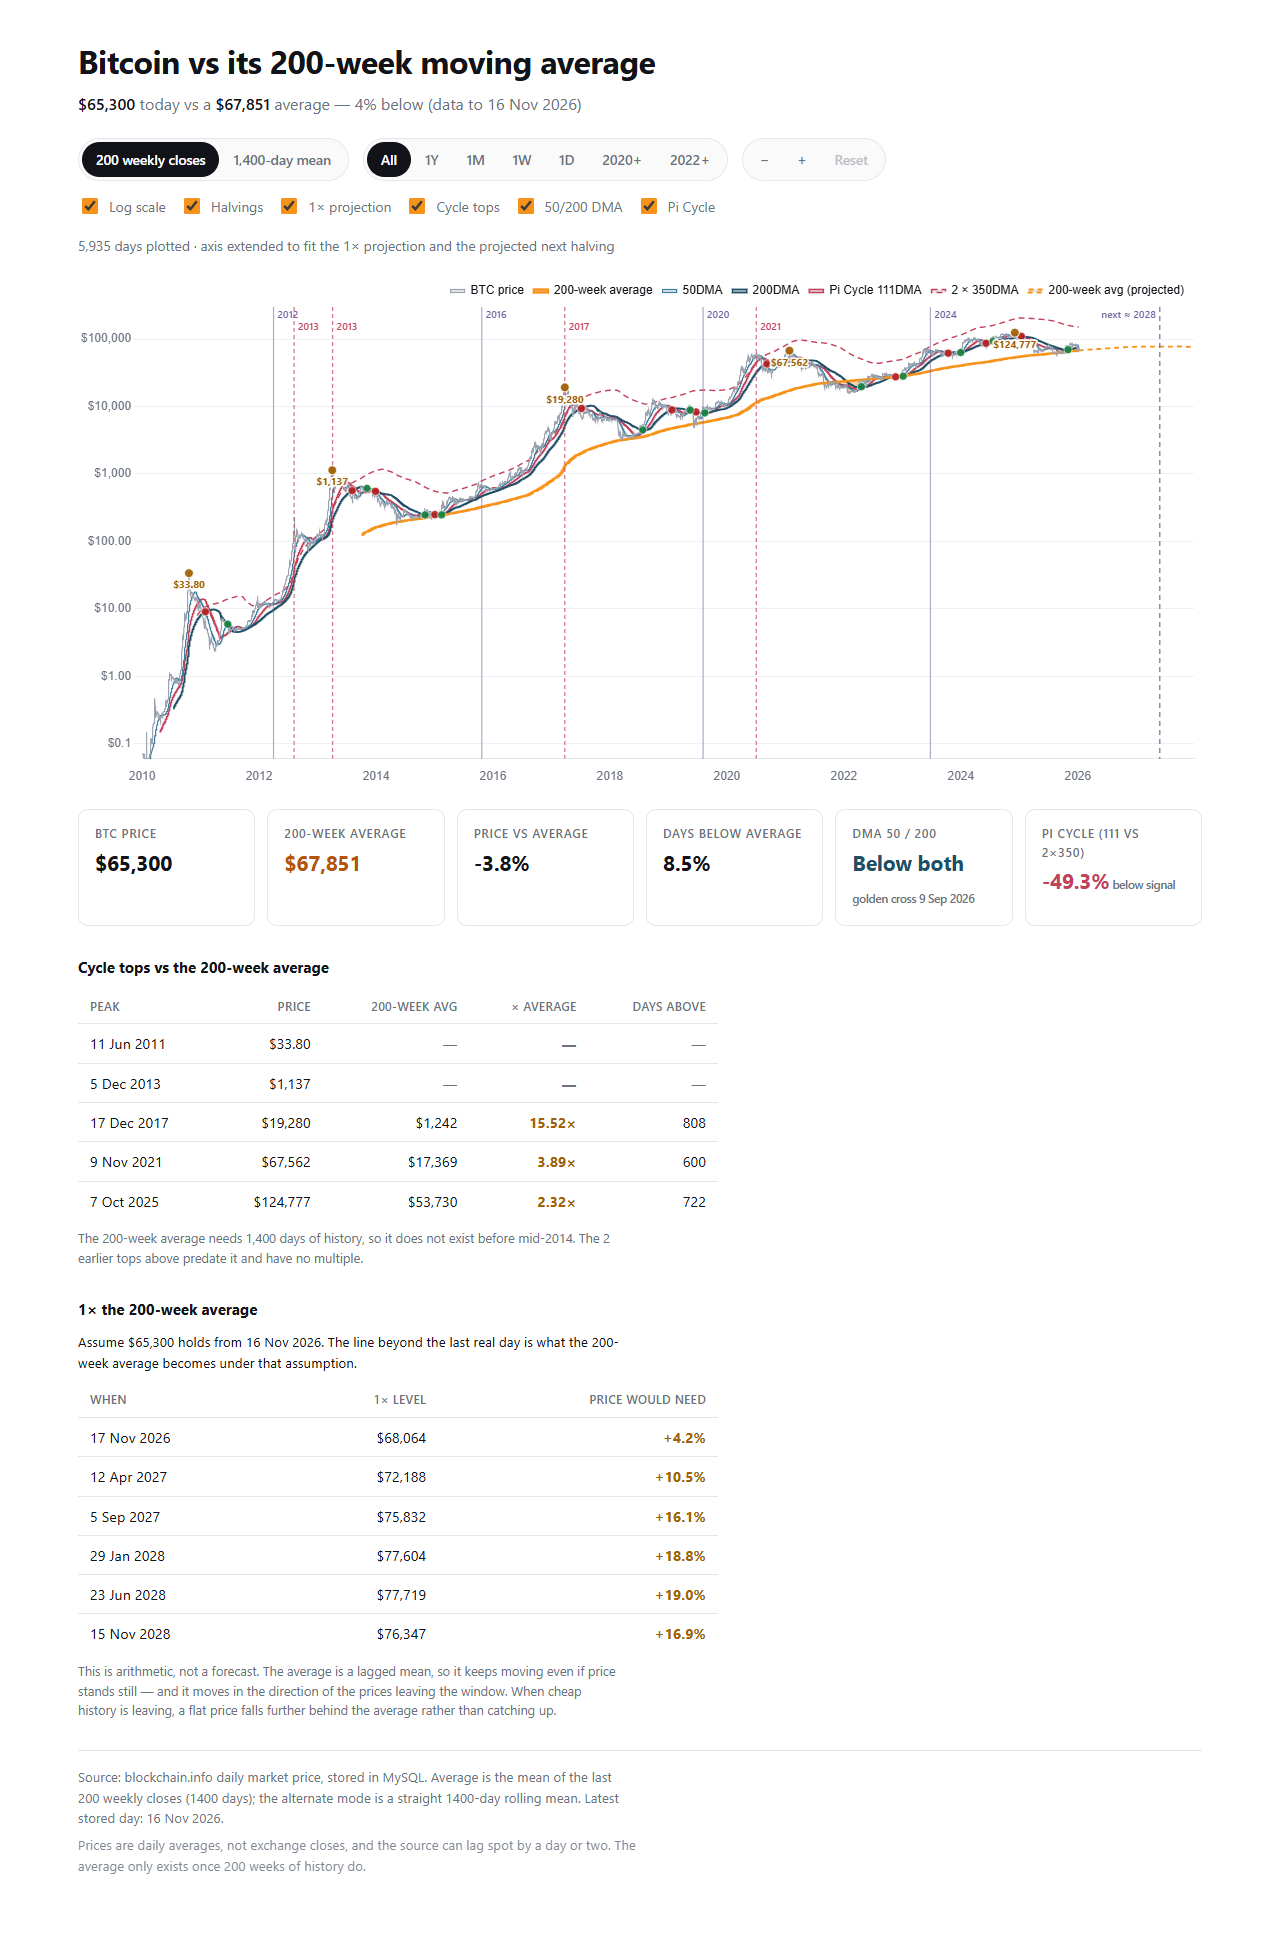
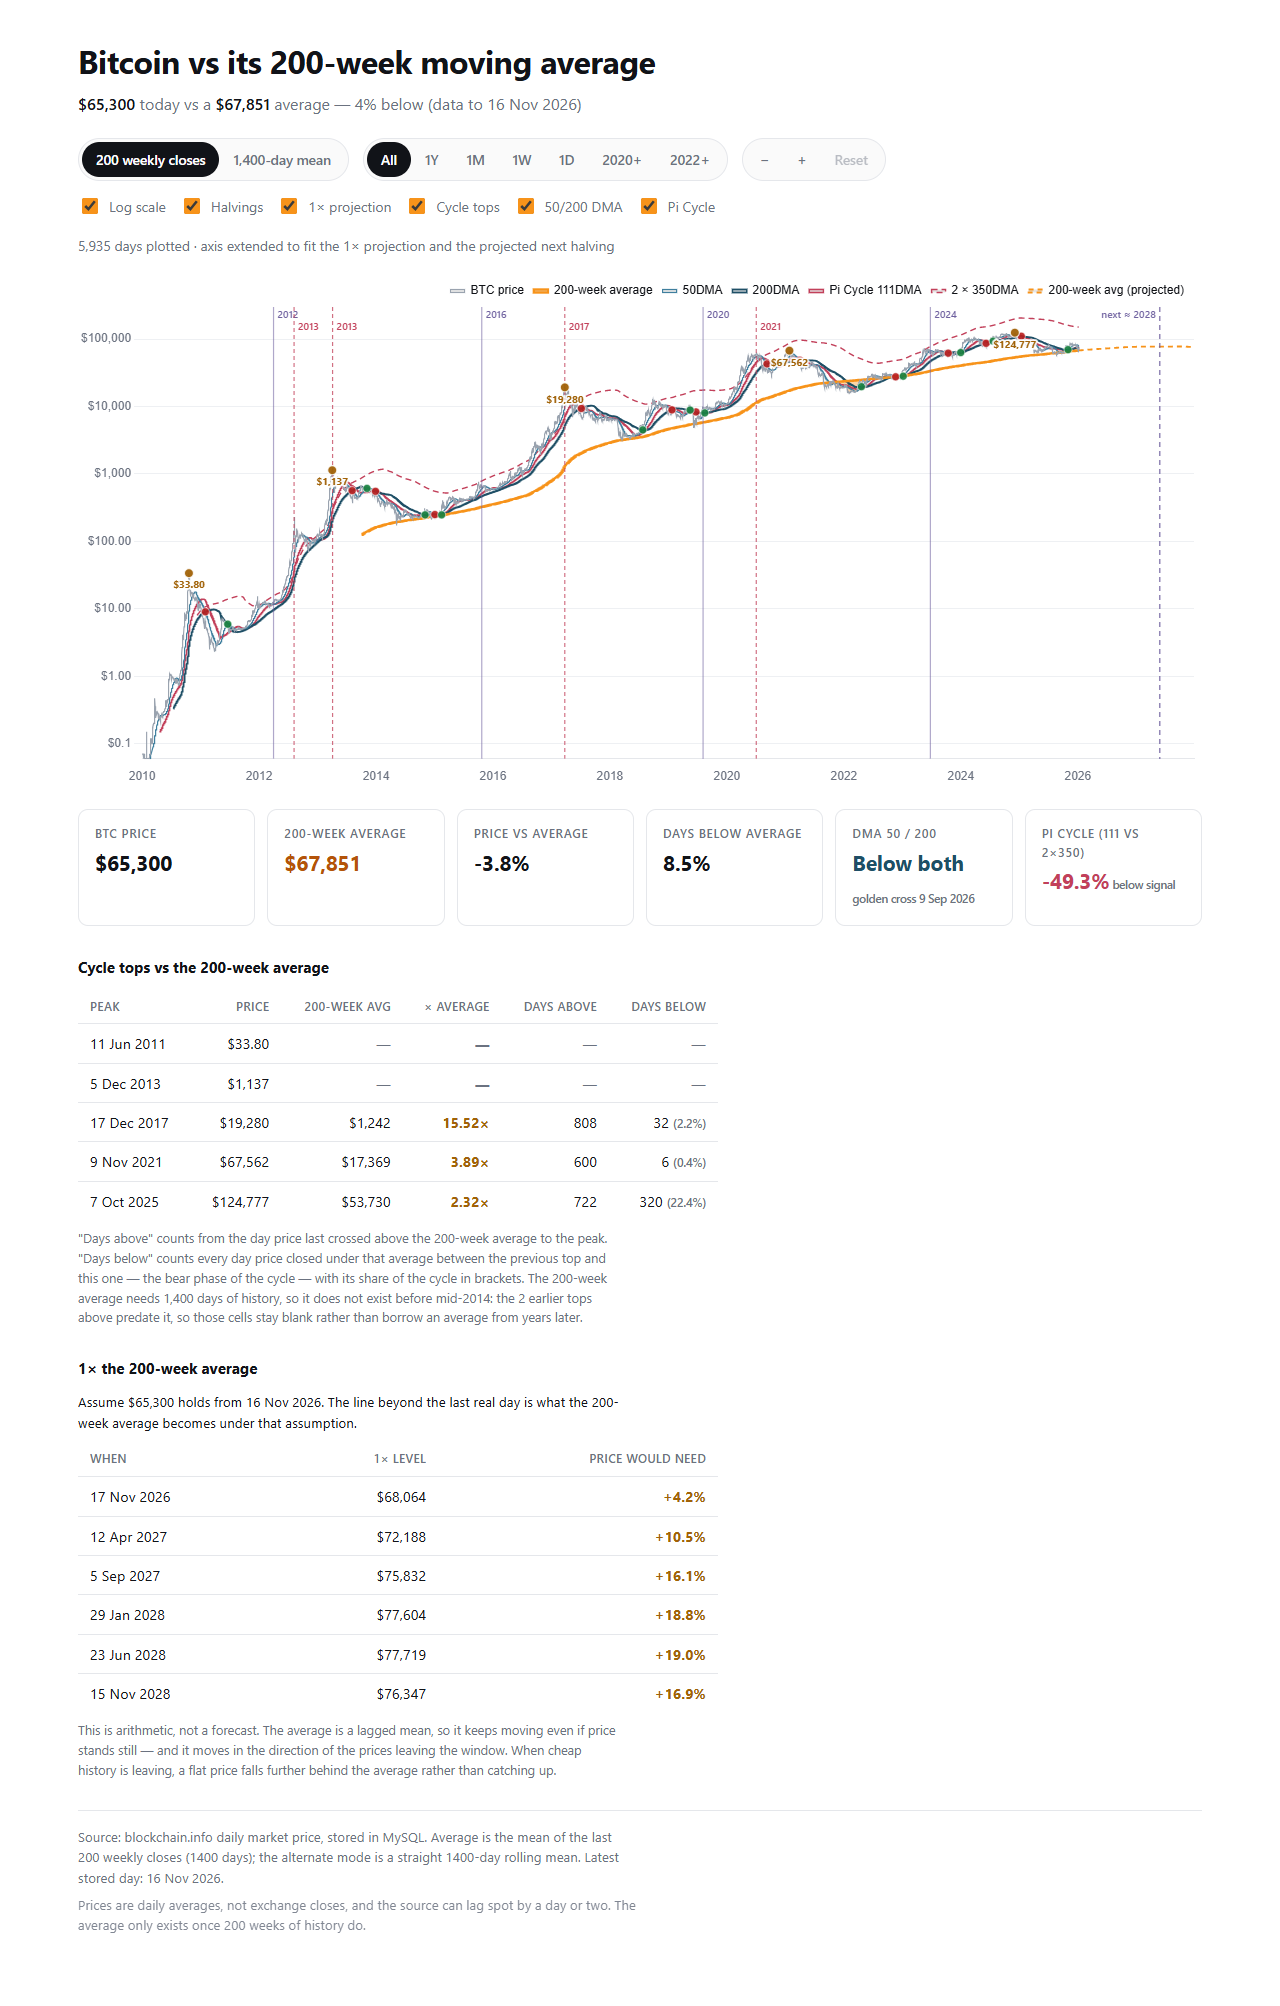
Count the days each cycle spent below the 200-week average
A "Days below" column beside "Days above", counting every day price closed
under the average between the previous top and this one, with its share of the
cycle in brackets.

The obvious measure - the stretch immediately before the crossing up - was
tried first and discarded. Price whipsaws across a moving average constantly,
so that returns 2, 5 and 47 days for the three peaks: arithmetically correct
and practically meaningless. Measuring across the whole cycle is what carries
information.

What it shows:

  2017-2021   32 of 1473 days below  (2.2%)
  2021-2025    6 of 1423 days below  (0.4%)
  2025-       320 of 1428 days below (22.4%)

The six days in the 2021 cycle are the March 2020 break and nothing else. That
looked wrong at first - 2018 was a deep bear market - so it was checked
against the data: at the December 2018 low of $3,242 the average was still
about $3,189, so price never closed under it that year. The bear market did not
touch the 200-week line.

Present cycle at 22.4% is the longest below-average stretch on record.

Also fixed: percentages rounded to whole numbers, so 6 days displayed as "0%"
and read as never; now one decimal. And on mobile the value and percentage
split to opposite ends of the row because flexbox treated the text node and
the span as separate items; wrapped in one element.

Peaks older than the average keep nulls rather than borrowing an average from
years later - the same rule as the other 200-week columns.
[…]

diff --git a/public/js/app.js b/public/js/app.js
@@ -1160,16 +1160,32 @@
                     (hasAverage ? p.multiple.toFixed(2) + '\u00d7' : '\u2014') + '</td>' +
                 '<td class="num' + (p.days_above === null ? ' na' : '') + '" data-label="Days above">' +
                     (p.days_above === null ? '\u2014' : p.days_above.toLocaleString('en-US')) + '</td>' +
+                '<td class="num' + (p.cycle_days_below === null || p.cycle_days_below === undefined ? ' na' : '') + '" data-label="Days below"><span>' +
+                    (p.cycle_days_below === null || p.cycle_days_below === undefined
+                        ? '\u2014'
+                        : p.cycle_days_below.toLocaleString('en-US') +
+                          ' <span class="pct">(' + (p.cycle_days ? (p.cycle_days_below / p.cycle_days * 100).toFixed(1).replace('.0', '') : '0') + '%)</span>') +
+                '</span></td>' +
                 '</tr>';
         });
 
         peakTableBodyEl.innerHTML = html;
         peakSectionEl.hidden = false;
 
-        peakNoteEl.textContent = missing > 0
-            ? 'The 200-week average needs 1,400 days of history, so it does not exist before mid-2014. The '
-                + missing + ' earlier top' + (missing === 1 ? '' : 's') + ' above predate it and have no multiple.'
-            : '"Days above" counts from the day price last crossed above the 200-week average to the peak.';
+        var note = '';
+
+        note += '"Days above" counts from the day price last crossed above the 200-week average to the peak.';
+
+        note += ' "Days below" counts every day price closed under that average between the previous top'
+            + ' and this one — the bear phase of the cycle — with its share of the cycle in brackets.';
+
+        if (missing > 0) {
+            note += ' The 200-week average needs 1,400 days of history, so it does not exist before mid-2014:'
+                + ' the ' + missing + ' earlier top' + (missing === 1 ? '' : 's') + ' above predate it, so those'
+                + ' cells stay blank rather than borrow an average from years later.';
+        }
+
+        peakNoteEl.textContent = note;
     }
 
     // ------------------------------------------------------------------ zoom

diff --git a/public/css/style.css b/public/css/style.css
@@ -280,6 +280,12 @@ main {
    "not applicable" rather than "none". */
 .peak-table td.na { color: var(--muted); }
 
+.peak-table .pct {
+    color: var(--muted);
+    font-size: 0.8em;
+    font-weight: 600;
+}
+
 .peak-note {
     margin: 8px 0 0;
     max-width: 78ch;

diff --git a/src/PeakJourney.php b/src/PeakJourney.php
@@ -15,6 +15,12 @@ namespace Btc200Wma;
  *  - the JOURNEY — days spent continuously above the average before the peak,
  *    starting from the last day price was at or below it.
  *
+ * A third number counts the opposite: how many days price closed UNDER the
+ * average across the whole cycle leading to the peak, measured from the previous
+ * peak. That is the bear phase of the cycle, and it is deliberately not "the
+ * days immediately before the crossing": price whipsaws across a moving average
+ * constantly, so that measure returns 2, 5 and 47 days and tells you nothing.
+ *
  * A limitation that cannot be engineered away, only reported: the 200-week
  * average needs 1,400 days of history, so it does not exist before mid-2014.
  * The 2011 and 2013 peaks predate it and have no multiple. They are returned
@@ -30,7 +36,8 @@ final class PeakJourney
      * @return list<array{
      *     date:string, usd:float, confirmed:bool,
      *     ma:?float, multiple:?float,
-     *     days_above:?int, crossed_above:?string
+     *     days_above:?int, crossed_above:?string,
+     *     cycle_days:?int, cycle_days_below:?int
      * }>
      */
     public function annotate(array $peaks, array $series): array
@@ -42,7 +49,7 @@ final class PeakJourney
 
         $out = [];
 
-        foreach ($peaks as $peak) {
+        foreach ($peaks as $n => $peak) {
             $i = $byDate[$peak['date']] ?? null;
             $ma = $i === null ? null : $series[$i]['ma'];
 
@@ -54,6 +61,8 @@ final class PeakJourney
                 'multiple'     => ($ma === null || $ma <= 0.0) ? null : $peak['usd'] / $ma,
                 'days_above'   => null,
                 'crossed_above' => null,
+                'cycle_days'   => null,
+                'cycle_days_below' => null,
             ];
 
             // Only a peak that falls inside the averaged range can have a
@@ -66,6 +75,36 @@ final class PeakJourney
                     // from there to the peak, inclusive.
                     $entry['days_above']    = $i - $lastBelow;
                     $entry['crossed_above'] = $series[$lastBelow + 1]['date'] ?? null;
+                }
+            }
+
+            // The bear phase: days below the average since the previous peak.
+            if ($n > 0 && $i !== null) {
+                $from = $byDate[$peaks[$n - 1]['date']] ?? null;
+
+                if ($from !== null && $from < $i) {
+                    $below = 0;
+                    $comparable = 0;
+
+                    for ($k = $from + 1; $k <= $i; $k++) {
+                        if ($series[$k]['ma'] === null) {
+                            continue;
+                        }
+
+                        $comparable++;
+
+                        if ($series[$k]['usd'] <= $series[$k]['ma']) {
+                            $below++;
+                        }
+                    }
+
+                    // Null, not zero, when the average did not exist for any day
+                    // of the window: a cycle that predates the average has no
+                    // bear phase to count.
+                    if ($comparable > 0) {
+                        $entry['cycle_days']       = $i - $from;
+                        $entry['cycle_days_below'] = $below;
+                    }
                 }
             }
 

diff --git a/tests/PeakJourneyTest.php b/tests/PeakJourneyTest.php
@@ -3,12 +3,12 @@
 declare(strict_types=1);
 
 /**
- * Tests for peak-vs-200-week-average analysis — plain PHP.
+ * Tests for peak-vs-200-week-average analysis â€” plain PHP.
  *
  *   php tests/PeakJourneyTest.php
  *
  * The failure that matters here is a plausible number built on a missing
- * average: dividing by null, or quietly reporting the 2011 peak as "0×", would
+ * average: dividing by null, or quietly reporting the 2011 peak as "0Ã—", would
  * put a wrong figure in a table people read as fact.
  */
 
@@ -50,7 +50,7 @@ $journey = new PeakJourney();
 
 echo "a peak before the average exists\n";
 
-// Peak on day 5, average only from day 3 onwards is not enough — null here.
+// Peak on day 5, average only from day 3 onwards is not enough â€” null here.
 $earlyPeak = [['date' => day(5), 'usd' => 100.0, 'confirmed' => true]];
 $earlySeries = [];
 for ($d = 0; $d <= 20; $d++) {
@@ -118,6 +118,38 @@ check('multiple still computed', abs($c['multiple'] - 2.0) < 1e-9, true);
 check('no crossing to measure from', $c['days_above'], null);
 check('no invented crossing date', $c['crossed_above'], null);
 
+echo "\ndays below the average across a cycle\n";
+
+// Two peaks 100 days apart. Days 1-49 above the average, days 50-100 below.
+// The cycle window runs from the day after the first peak to the second.
+$cycSeries = [];
+for ($d = 0; $d <= 100; $d++) {
+    $cycSeries[] = [
+        'date' => day($d),
+        'usd'  => $d < 50 ? 20.0 : 5.0,
+        'ma'   => 10.0,
+    ];
+}
+
+$cycPeaks = [
+    ['date' => day(0),  'usd' => 20.0, 'confirmed' => true],
+    ['date' => day(100), 'usd' => 20.0, 'confirmed' => true],
+];
+
+$c = $journey->annotate($cycPeaks, $cycSeries);
+check('first peak has no cycle to measure', $c[0]['cycle_days_below'], null);
+check('cycle length counted', $c[1]['cycle_days'], 100);
+// Days 50 through 100 inclusive are below: 51 of the 100 counted days.
+check('days below counted across the cycle', $c[1]['cycle_days_below'], 51);
+
+// With no average data in the window, null rather than a misleading zero.
+$noMa = [];
+for ($d = 0; $d <= 100; $d++) {
+    $noMa[] = ['date' => day($d), 'usd' => 20.0, 'ma' => null];
+}
+$nm = $journey->annotate($cycPeaks, $noMa);
+check('no average in the window means null', $nm[1]['cycle_days_below'], null);
+
 echo "\nconfirmed flag survives the annotation\n";
 
 $p4 = [['date' => day(20), 'usd' => 40.0, 'confirmed' => false]];
@@ -135,5 +167,5 @@ check('first date first', $m[0]['date'], day(20));
 check('second date second', $m[1]['date'], day(25));
 
 echo "\n----------------------------------------------------------------\n";
-echo ($failures === 0 ? 'PASS' : 'FAIL') . " — {$checks} checks, {$failures} failed\n";
+echo ($failures === 0 ? 'PASS' : 'FAIL') . " â€” {$checks} checks, {$failures} failed\n";
 exit($failures === 0 ? 0 : 1);

diff --git a/public/api/series.php b/public/api/series.php
@@ -260,6 +260,10 @@ try {
                     'multiple'      => $p['multiple'] === null ? null : round($p['multiple'], 2),
                     'days_above'    => $p['days_above'],
                     'crossed_above' => $p['crossed_above'],
+                    // The bear phase: days price closed under the average between
+                    // the previous top and this one.
+                    'cycle_days'    => $p['cycle_days'],
+                    'cycle_days_below' => $p['cycle_days_below'],
                 ],
                 $peakRows
             ),

diff --git a/public/index.php b/public/index.php
@@ -139,6 +139,7 @@ php bin/import.php</pre>
                         <th scope="col" class="num">200-week avg</th>
                         <th scope="col" class="num">&times; average</th>
                         <th scope="col" class="num">Days above</th>
+                        <th scope="col" class="num">Days below</th>
                     </tr>
                 </thead>
                 <tbody></tbody>

diff --git a/README.md b/README.md
@@ -169,17 +169,31 @@ so this is visible rather than assumed.
 
 Below the stat cards, a table answers how far each top ran above the average:
 
-| Peak | Price | 200-week avg | × average | Days above |
-|------|-------|--------------|-----------|------------|
-| 11 Jun 2011 | $33.80 | — | — | — |
-| 5 Dec 2013 | $1,137 | — | — | — |
-| 17 Dec 2017 | $19,280 | $1,242 | 15.52× | 808 |
-| 9 Nov 2021 | $67,562 | $17,369 | 3.89× | 600 |
-| 7 Oct 2025 | $124,777 | $53,730 | 2.32× | 722 |
+| Peak | Price | 200-week avg | × average | Days above | Days below |
+|------|-------|--------------|-----------|------------|------------|
+| 11 Jun 2011 | $33.80 | — | — | — | — |
+| 5 Dec 2013 | $1,137 | — | — | — | — |
+| 17 Dec 2017 | $19,280 | $1,242 | 15.52× | 808 | 32 (2.2%) |
+| 9 Nov 2021 | $67,562 | $17,369 | 3.89× | 600 | 6 (0.4%) |
+| 7 Oct 2025 | $124,777 | $53,730 | 2.32× | 722 | 320 (22.4%) |
 
 **× average** is the peak price divided by the 200-week average *on that day*.
 **Days above** counts from the day price last crossed above the average to the
 peak — the length of the run that carried it there.
+
+**Days below** is the other half of the cycle: every day price closed *under*
+the average between the previous top and this one, with its share of the cycle
+in brackets. That is the bear phase — and the three cycles differ sharply.
+Only 6 days of the 2017–2021 cycle were spent below the average (the March 2020
+break, and nothing else; 2018 never closed under it, because the average was
+still around $3,200 at the December low). The present cycle has spent 320 days
+below, 22.4% of it.
+
+It is worth being precise about what "Days below" is **not**: it is not the
+stretch immediately before the crossing. Price whipsaws across a moving average
+constantly, so that measure returns 2, 5 and 47 days for the three peaks —
+arithmetically correct and practically meaningless. Measuring across the whole
+cycle is what carries information.
 
 The two early tops show a dash, and that is not a formatting choice: the
 200-week average needs 1,400 days of history, so it does not exist before
@@ -437,8 +451,10 @@ line — negative meaning below.
 `peaks.window_days` stating the prominence window used. Also not windowed.
 
 `peaks.vs_average` adds each peak's `ma` (the 200-week average that day),
-`multiple` (peak ÷ average), `days_above` and `crossed_above`. The first two are
-null for peaks older than the average itself.
+`multiple` (peak ÷ average), `days_above` and `crossed_above`, plus
+`cycle_days` and `cycle_days_below` — the length of the cycle since the previous
+top and how many of those days closed under the average. The 200-week fields are
+null for peaks older than that average itself.
 
 `projection` carries the 1× projection: `assumption` (the sentence the numbers
 depend on), `assumed_price`, `from`, and parallel `labels` / `ma` / `ratio`
@@ -489,8 +505,9 @@ php tests/ProjectionTest.php
 17 assertions on week alignment, exclusion of the partial trailing week, and
 both averaging modes; 20 on the halving schedule and projection; 14 on the Pi
 Cycle windows, the price multiple and crossing detection; 16 on the 50/200-day
-windows and cross direction; 20 on cycle-peak detection; 17 on the peak-vs-average
-multiples and journey lengths; 23 on the 1× projection. No dependencies.
+windows and cross direction; 20 on cycle-peak detection; 21 on the peak-vs-average
+multiples, journey lengths and cycle day counts; 23 on the 1× projection.
+No dependencies.
 
 ## Limitations
 
